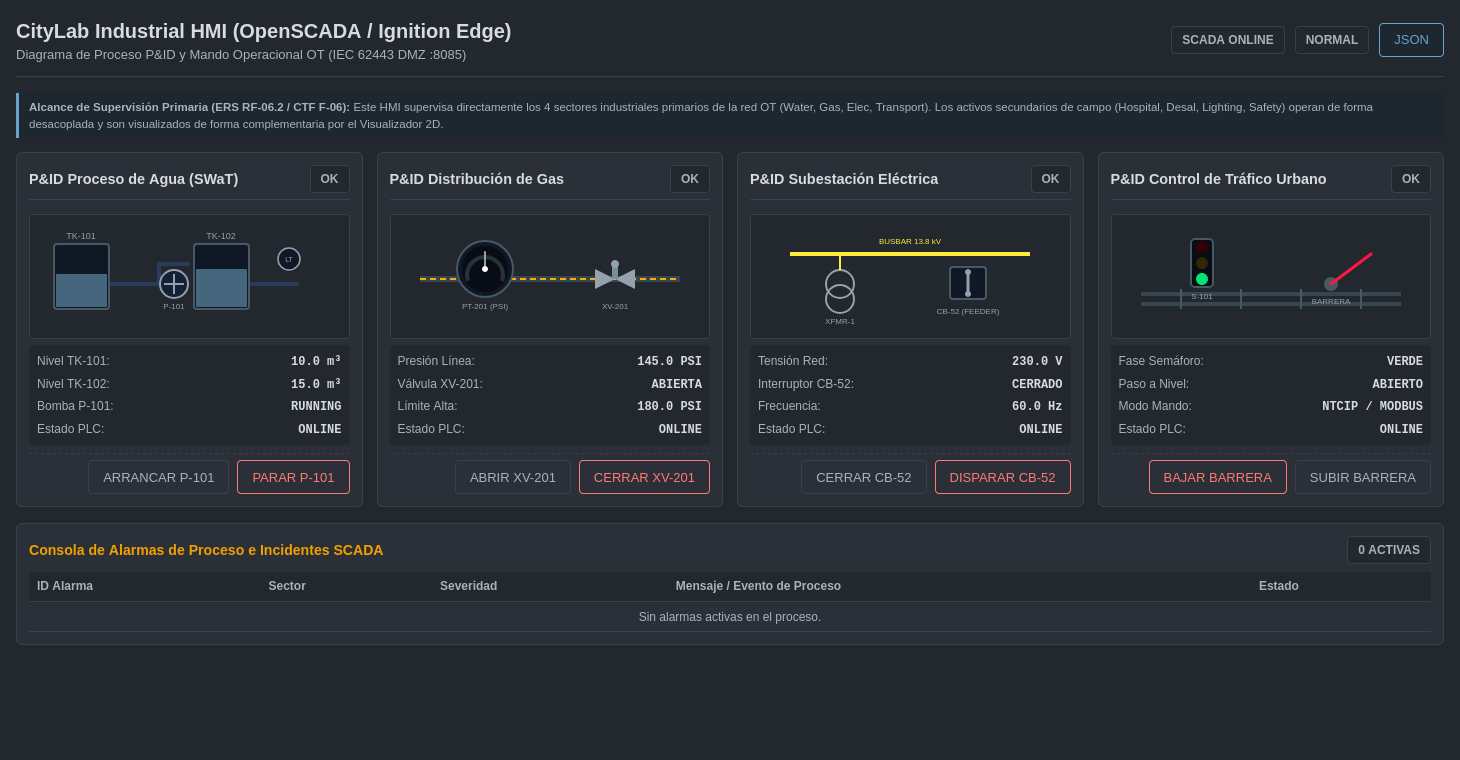
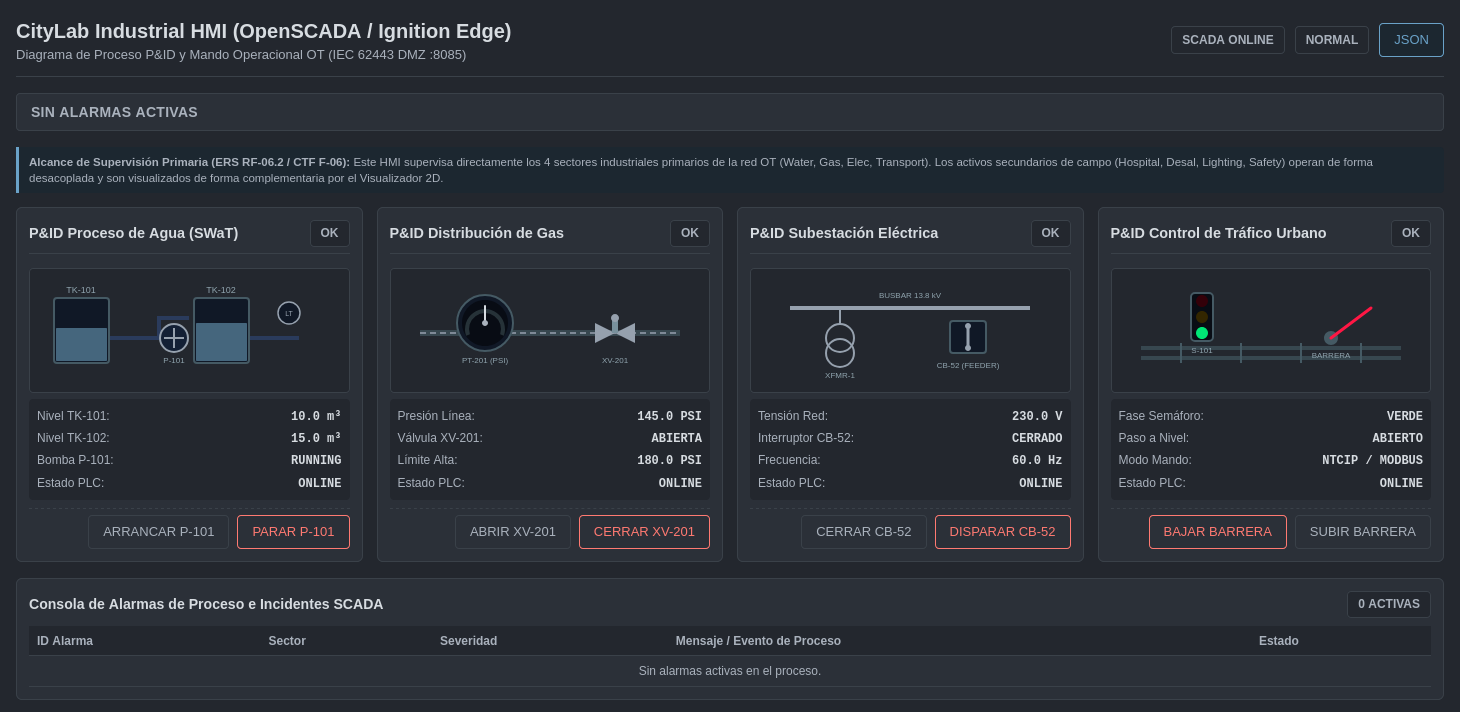
feat(ui): banda L1 de alarmas y refinamiento ISA-101 de mímicos en viz/hmi
Agrega una banda de resumen de alarmas de nivel 1 (L1) en la cabecera del
Visualizador 2D y del HMI Industrial. En el viz se deriva de los badges que
cada sector ya fija por render (sin reevaluar umbrales); en el HMI, del mismo
arreglo de alarmas que alimenta la consola. Queda gris en operacion normal y
pasa a rojo/ambar nombrando las areas afectadas cuando un sector dispara.

Aplica el principio ISA-101 de color reservado a los elementos siempre-activos
que antes vestian el color de alarma: el manometro de gas pasa de semaforo
tricolor a escala gris neutra, el busbar 13.8 kV y el indicador de carga se
mutean a gris, y el titulo de la consola de alarmas deja de ser ambar fijo.
El componente .alarm-band vive en ui_theme.py como fuente unica.

Se preservan los colores semanticos (semaforo, cruz hospitalaria, estados de
alarma reales) y las cadenas de badge. Capturas del README regeneradas.
Tests: 293/294 (unica falla: flake multicast GOOSE del host).

diff --git a/network/hmi_server.py b/network/hmi_server.py
@@ -276,7 +276,7 @@ class HmiRequestHandler(BaseHTTPRequestHandler):
     }
     .alarm-panel h3 {
       font-size: 0.88rem;
-      color: var(--alarm-warn);
+      color: var(--fg);
       margin-bottom: 8px;
       display: flex;
       justify-content: space-between;
@@ -345,6 +345,11 @@ class HmiRequestHandler(BaseHTTPRequestHandler):
     </div>
   </header>
 
+  <div id="alarm-band" class="alarm-band alarm-band-ok" role="status" aria-live="polite">
+    <span class="count" id="alarm-band-count">SIN ALARMAS ACTIVAS</span>
+    <span class="areas" id="alarm-band-areas"></span>
+  </div>
+
   <div class="notice-box">
     <strong>Alcance de Supervisión Primaria (ERS RF-06.2 / CTF F-06):</strong> Este HMI supervisa directamente los 4 sectores industriales primarios de la red OT (Water, Gas, Elec, Transport). Los activos secundarios de campo (Hospital, Desal, Lighting, Safety) operan de forma desacoplada y son visualizados de forma complementaria por el Visualizador 2D.
   </div>
@@ -400,13 +405,13 @@ class HmiRequestHandler(BaseHTTPRequestHandler):
         <svg width="300" height="115" viewBox="0 0 300 115">
           <!-- Tubería principal -->
           <line x1="20" y1="60" x2="280" y2="60" stroke="#37474f" stroke-width="6"/>
-          <line x1="20" y1="60" x2="280" y2="60" stroke="#ffab00" stroke-width="2" stroke-dasharray="6,4"/>
+          <line x1="20" y1="60" x2="280" y2="60" stroke="#7f8a97" stroke-width="2" stroke-dasharray="6,4"/>
           <!-- Manómetro de presión PT-201 -->
           <circle cx="85" cy="50" r="28" fill="#101826" stroke="#455a64" stroke-width="2"/>
           <circle cx="85" cy="50" r="23" fill="#080c14"/>
           <path d="M68 62 A18 18 0 1 1 102 62" fill="none" stroke="#263238" stroke-width="4"/>
-          <line id="pid-gas-needle" x1="85" y1="50" x2="85" y2="33" stroke="#96a1ae" stroke-width="2" stroke-linecap="round"/>
-          <circle cx="85" cy="50" r="3" fill="#fff"/>
+          <line id="pid-gas-needle" x1="85" y1="50" x2="85" y2="33" stroke="#d7dce1" stroke-width="2" stroke-linecap="round"/>
+          <circle cx="85" cy="50" r="3" fill="#aab2bd"/>
           <text x="85" y="90" fill="#90a4ae" font-size="8" text-anchor="middle">PT-201 (PSI)</text>
           <!-- Válvula de control solenoide XV-201 -->
           <g transform="translate(195, 45)">
@@ -439,12 +444,12 @@ class HmiRequestHandler(BaseHTTPRequestHandler):
       <div class="pid-wrap">
         <svg width="300" height="115" viewBox="0 0 300 115">
           <!-- Barra de Distribución Busbar 13.8kV -->
-          <line x1="30" y1="35" x2="270" y2="35" stroke="#ffeb3b" stroke-width="4"/>
-          <text x="150" y="25" fill="#ffeb3b" font-size="8" text-anchor="middle">BUSBAR 13.8 kV</text>
+          <line x1="30" y1="35" x2="270" y2="35" stroke="#96a1ae" stroke-width="4"/>
+          <text x="150" y="25" fill="#90a4ae" font-size="8" text-anchor="middle">BUSBAR 13.8 kV</text>
           <!-- Transformador T1 -->
           <circle cx="80" cy="65" r="14" fill="none" stroke="#96a1ae" stroke-width="2"/>
           <circle cx="80" cy="80" r="14" fill="none" stroke="#96a1ae" stroke-width="2"/>
-          <line x1="80" y1="35" x2="80" y2="51" stroke="#ffeb3b" stroke-width="2"/>
+          <line x1="80" y1="35" x2="80" y2="51" stroke="#96a1ae" stroke-width="2"/>
           <text x="80" y="105" fill="#90a4ae" font-size="8" text-anchor="middle">XFMR-1</text>
           <!-- Interruptor de Potencia CB-52 -->
           <g id="pid-elec-cb-grp" transform="translate(190, 48)">
@@ -693,6 +698,9 @@ class HmiRequestHandler(BaseHTTPRequestHandler):
           countBadge.innerText = alarms.length + ' ACTIVAS';
           countBadge.className = alarms.length > 0 ? 'badge badge-crit' : 'badge badge-ok';
 
+          // Banda L1: rollup por severidad de esas mismas alarmas (misma fuente que la tabla).
+          updateAlarmBand(alarms);
+
           const tbody = document.getElementById('alarm-tbody');
           if (alarms.length === 0) {
             tbody.innerHTML = '<tr><td colspan="5" style="color: var(--fg-dim); text-align: center;">Sin alarmas activas en el proceso.</td></tr>';
@@ -713,6 +721,31 @@ class HmiRequestHandler(BaseHTTPRequestHandler):
           document.getElementById('badge-health').className = 'badge badge-crit';
           document.getElementById('badge-health').innerText = 'ERROR CONEXIÓN';
         });
+    }
+
+    function updateAlarmBand(alarms) {
+      const band = document.getElementById('alarm-band');
+      if (!band) return;
+      const crit = [], warn = [];
+      alarms.forEach(a => {
+        const area = a.sector ? a.sector.toUpperCase() : 'SISTEMA';
+        if (a.severity === 'CRITICAL') crit.push(area);
+        else warn.push(area);
+      });
+      const count = document.getElementById('alarm-band-count');
+      const areas = document.getElementById('alarm-band-areas');
+      if (!crit.length && !warn.length) {
+        band.className = 'alarm-band alarm-band-ok';
+        count.innerText = 'SIN ALARMAS ACTIVAS';
+        areas.innerText = '';
+        return;
+      }
+      band.className = 'alarm-band ' + (crit.length ? 'alarm-band-crit' : 'alarm-band-warn');
+      const parts = [];
+      if (crit.length) parts.push(crit.length + (crit.length > 1 ? ' CRÍTICAS' : ' CRÍTICA'));
+      if (warn.length) parts.push(warn.length + (warn.length > 1 ? ' ADVERTENCIAS' : ' ADVERTENCIA'));
+      count.innerText = parts.join('  ·  ');
+      areas.innerText = Array.from(new Set(crit.concat(warn))).join('  ·  ');
     }
 
     setInterval(updateHmi, 2000);

diff --git a/network/viz_server.py b/network/viz_server.py
@@ -159,6 +159,11 @@ class VizRequestHandler(BaseHTTPRequestHandler):
     </div>
   </header>
 
+  <div id="alarm-band" class="alarm-band alarm-band-ok" role="status" aria-live="polite">
+    <span class="count" id="alarm-band-count">SIN ALARMAS ACTIVAS</span>
+    <span class="areas" id="alarm-band-areas"></span>
+  </div>
+
   <div class="grid">
     <!-- 1. AGUA -->
     <div class="card">
@@ -195,12 +200,9 @@ class VizRequestHandler(BaseHTTPRequestHandler):
         <svg width="220" height="110" viewBox="0 0 220 110">
           <circle cx="90" cy="55" r="40" fill="#121a29" stroke="#37474f" stroke-width="2"/>
           <circle cx="90" cy="55" r="34" fill="#090d14"/>
-          <path d="M60 70 A30 30 0 1 1 120 70" fill="none" stroke="#263238" stroke-width="6"/>
-          <path d="M60 70 A30 30 0 0 1 85 27" fill="none" stroke="#00e676" stroke-width="6"/>
-          <path d="M85 27 A30 30 0 0 1 105 32" fill="none" stroke="#ffab00" stroke-width="6"/>
-          <path d="M105 32 A30 30 0 0 1 120 70" fill="none" stroke="#ff1744" stroke-width="6"/>
-          <line id="svg-gas-needle" x1="90" y1="55" x2="90" y2="28" stroke="#ff5252" stroke-width="2.5" stroke-linecap="round" transform="rotate(20, 90, 55)"/>
-          <circle cx="90" cy="55" r="4" fill="#fff"/>
+          <path d="M60 70 A30 30 0 1 1 120 70" fill="none" stroke="#3a4149" stroke-width="6"/>
+          <line id="svg-gas-needle" x1="90" y1="55" x2="90" y2="28" stroke="#d7dce1" stroke-width="2.5" stroke-linecap="round" transform="rotate(20, 90, 55)"/>
+          <circle cx="90" cy="55" r="4" fill="#aab2bd"/>
           <text x="90" y="80" fill="#78909c" font-size="8" text-anchor="middle">PSI x10</text>
           <g id="svg-gas-valve-grp" transform="translate(165, 40)">
             <polygon points="0,5 15,20 0,35" fill="#96a1ae"/>
@@ -232,7 +234,7 @@ class VizRequestHandler(BaseHTTPRequestHandler):
           <circle cx="115" cy="55" r="4" fill="#96a1ae"/>
           <line x1="115" y1="55" x2="160" y2="55" stroke="#96a1ae" stroke-width="3"/>
           <text x="90" y="30" fill="#78909c" font-size="9" text-anchor="middle">XCBR1</text>
-          <path d="M175 40 L195 55 L175 70 Z" fill="#ffab00" opacity="0.8"/>
+          <path d="M175 40 L195 55 L175 70 Z" fill="#96a1ae" opacity="0.8"/>
           <text x="185" y="90" fill="#78909c" font-size="8" text-anchor="middle">Carga</text>
         </svg>
       </div>
@@ -580,8 +582,38 @@ class VizRequestHandler(BaseHTTPRequestHandler):
         sdnList.innerText = 'Sin aislamientos activos (Tráfico normal OpenFlow).';
       }
 
+      // Banda L1: refleja los badges que cada sector acaba de fijar, sin reevaluar umbrales.
+      updateAlarmBand();
+
       // Actualizar viewport crudo
       document.getElementById('viewport').innerText = JSON.stringify(data, null, 2);
+    }
+
+    function updateAlarmBand() {
+      const band = document.getElementById('alarm-band');
+      if (!band) return;
+      const crit = [], warn = [];
+      document.querySelectorAll('.grid .card').forEach(card => {
+        const badge = card.querySelector('.badge');
+        const title = card.querySelector('.card-title');
+        if (!badge || !title) return;
+        if (badge.classList.contains('badge-crit')) crit.push(title.innerText);
+        else if (badge.classList.contains('badge-warn')) warn.push(title.innerText);
+      });
+      const count = document.getElementById('alarm-band-count');
+      const areas = document.getElementById('alarm-band-areas');
+      if (!crit.length && !warn.length) {
+        band.className = 'alarm-band alarm-band-ok';
+        count.innerText = 'SIN ALARMAS ACTIVAS';
+        areas.innerText = '';
+        return;
+      }
+      band.className = 'alarm-band ' + (crit.length ? 'alarm-band-crit' : 'alarm-band-warn');
+      const parts = [];
+      if (crit.length) parts.push(crit.length + (crit.length > 1 ? ' CRÍTICAS' : ' CRÍTICA'));
+      if (warn.length) parts.push(warn.length + (warn.length > 1 ? ' ADVERTENCIAS' : ' ADVERTENCIA'));
+      count.innerText = parts.join('  ·  ');
+      areas.innerText = crit.concat(warn).join('  ·  ');
     }
 
     function pollFrame() {

diff --git a/network/ui_theme.py b/network/ui_theme.py
@@ -115,6 +115,17 @@ h1{font-size:1.25rem;font-weight:600;color:var(--fg);letter-spacing:0;}
   margin-bottom:8px;border-bottom:1px solid var(--line);padding-bottom:6px;}
 .card-title{font-size:0.9rem;font-weight:600;color:var(--fg);}
 :focus-visible{outline:2px solid var(--accent);outline-offset:2px;}
+.alarm-band{display:flex;align-items:center;gap:12px;padding:8px 14px;border-radius:4px;
+  margin-bottom:16px;border:1px solid var(--line);background:var(--surface);}
+.alarm-band-ok{color:var(--fg-dim);}
+.alarm-band-warn{background:var(--alarm-warn-bg);color:var(--alarm-warn);
+  border-color:var(--alarm-warn);}
+.alarm-band-crit{background:var(--alarm-crit-bg);color:var(--alarm-crit);
+  border-color:var(--alarm-crit);}
+.alarm-band .count{font-weight:700;letter-spacing:0.02em;white-space:nowrap;}
+.alarm-band .areas{font-size:0.75rem;overflow:hidden;text-overflow:ellipsis;
+  white-space:nowrap;color:var(--fg-dim);}
+.alarm-band-warn .areas,.alarm-band-crit .areas{color:inherit;opacity:0.9;}
 """
 
 SHARED_CSS = _ROOT + _COMPONENTS

diff --git a/README.md b/README.md
@@ -22,11 +22,13 @@
 
 El Visualizador 2D (`:8090`), el HMI Industrial (`:8085`) y el dashboard nativo Tkinter comparten una paleta **ISA-101 High-Performance HMI**: lienzo gris, el estado normal en monocromo de bajo contraste y el color reservado a la condición anómala. Todo se sirve 100% self-contained (fuentes del sistema, SVG embebido, sin dependencias externas), apto para la red airgapped.
 
-**Visualizador 2D, operación normal.** Los 8 sectores en gris de bajo contraste: ningún elemento compite por la atención del operador.
+Una banda de alarmas L1 encabeza ambas superficies web y resume la situación por severidad: queda gris cuando no hay nada activo y pasa a rojo o ámbar en cuanto un sector dispara, nombrando las áreas afectadas. Los mímicos analógicos (manómetro de gas, busbar eléctrico) también descansan en gris, de modo que el ámbar y el rojo solo aparecen sobre una alarma real.
+
+**Visualizador 2D, operación normal.** Los 8 sectores en gris de bajo contraste y la banda L1 en «SIN ALARMAS ACTIVAS»: ningún elemento compite por la atención del operador.
 
 ![Visualizador 2D de CityLab en estado normal, con los ocho sectores en gris](docs/img/viz-normal.png)
 
-**Visualizador 2D, ataque en cascada IT→OT.** Una inyección Modbus con escaneo al honeypot dispara TRIP de agua, apagón eléctrico, alta presión de gas y disparo del SIS SIL-3. El panel Blue Team correlaciona la alerta SOC y aplica la mitigación SDN (aislamiento del host atacante). Los sectores no afectados siguen en gris.
+**Visualizador 2D, ataque en cascada IT→OT.** Una inyección Modbus con escaneo al honeypot dispara TRIP de agua, apagón eléctrico, alta presión de gas y disparo del SIS SIL-3. La banda L1 cuenta «6 CRÍTICAS · 1 ADVERTENCIA» y lista los sectores; el panel Blue Team correlaciona la alerta SOC y aplica la mitigación SDN (aislamiento del host atacante). Los sectores no afectados siguen en gris.
 
 ![Visualizador 2D de CityLab bajo ataque, con el color reservado a los sectores en alarma](docs/img/viz-alarm.png)
 
